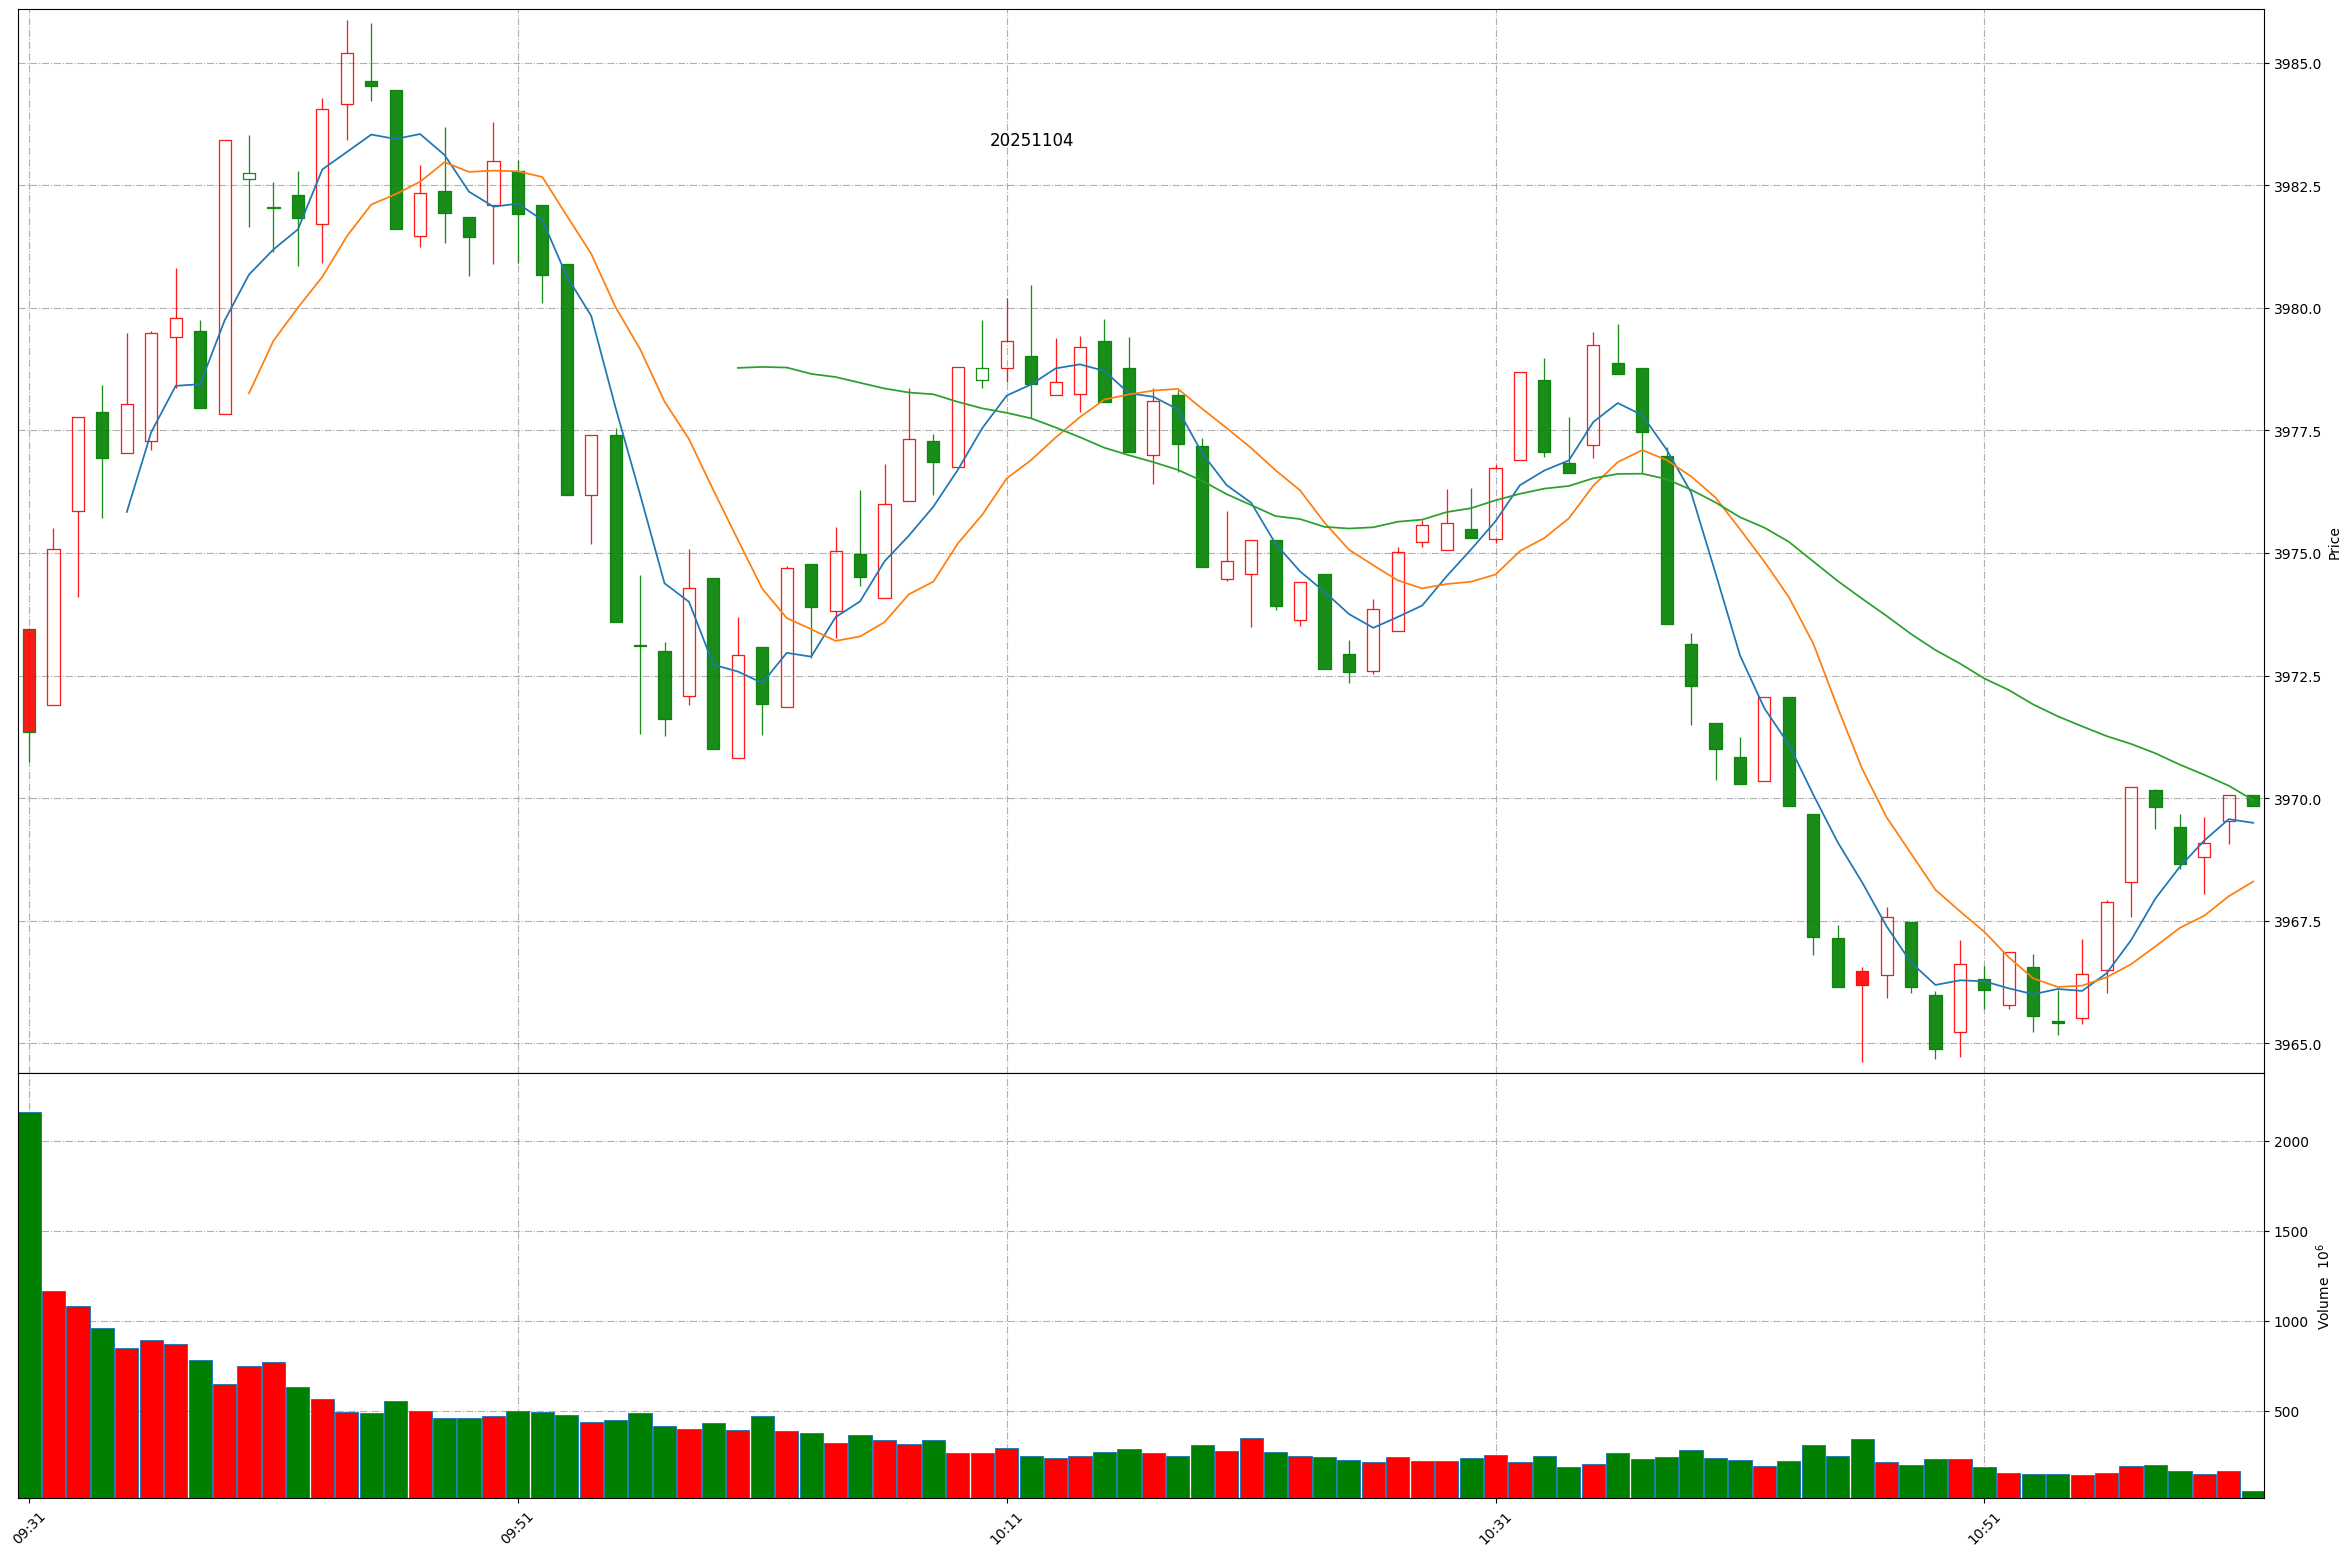
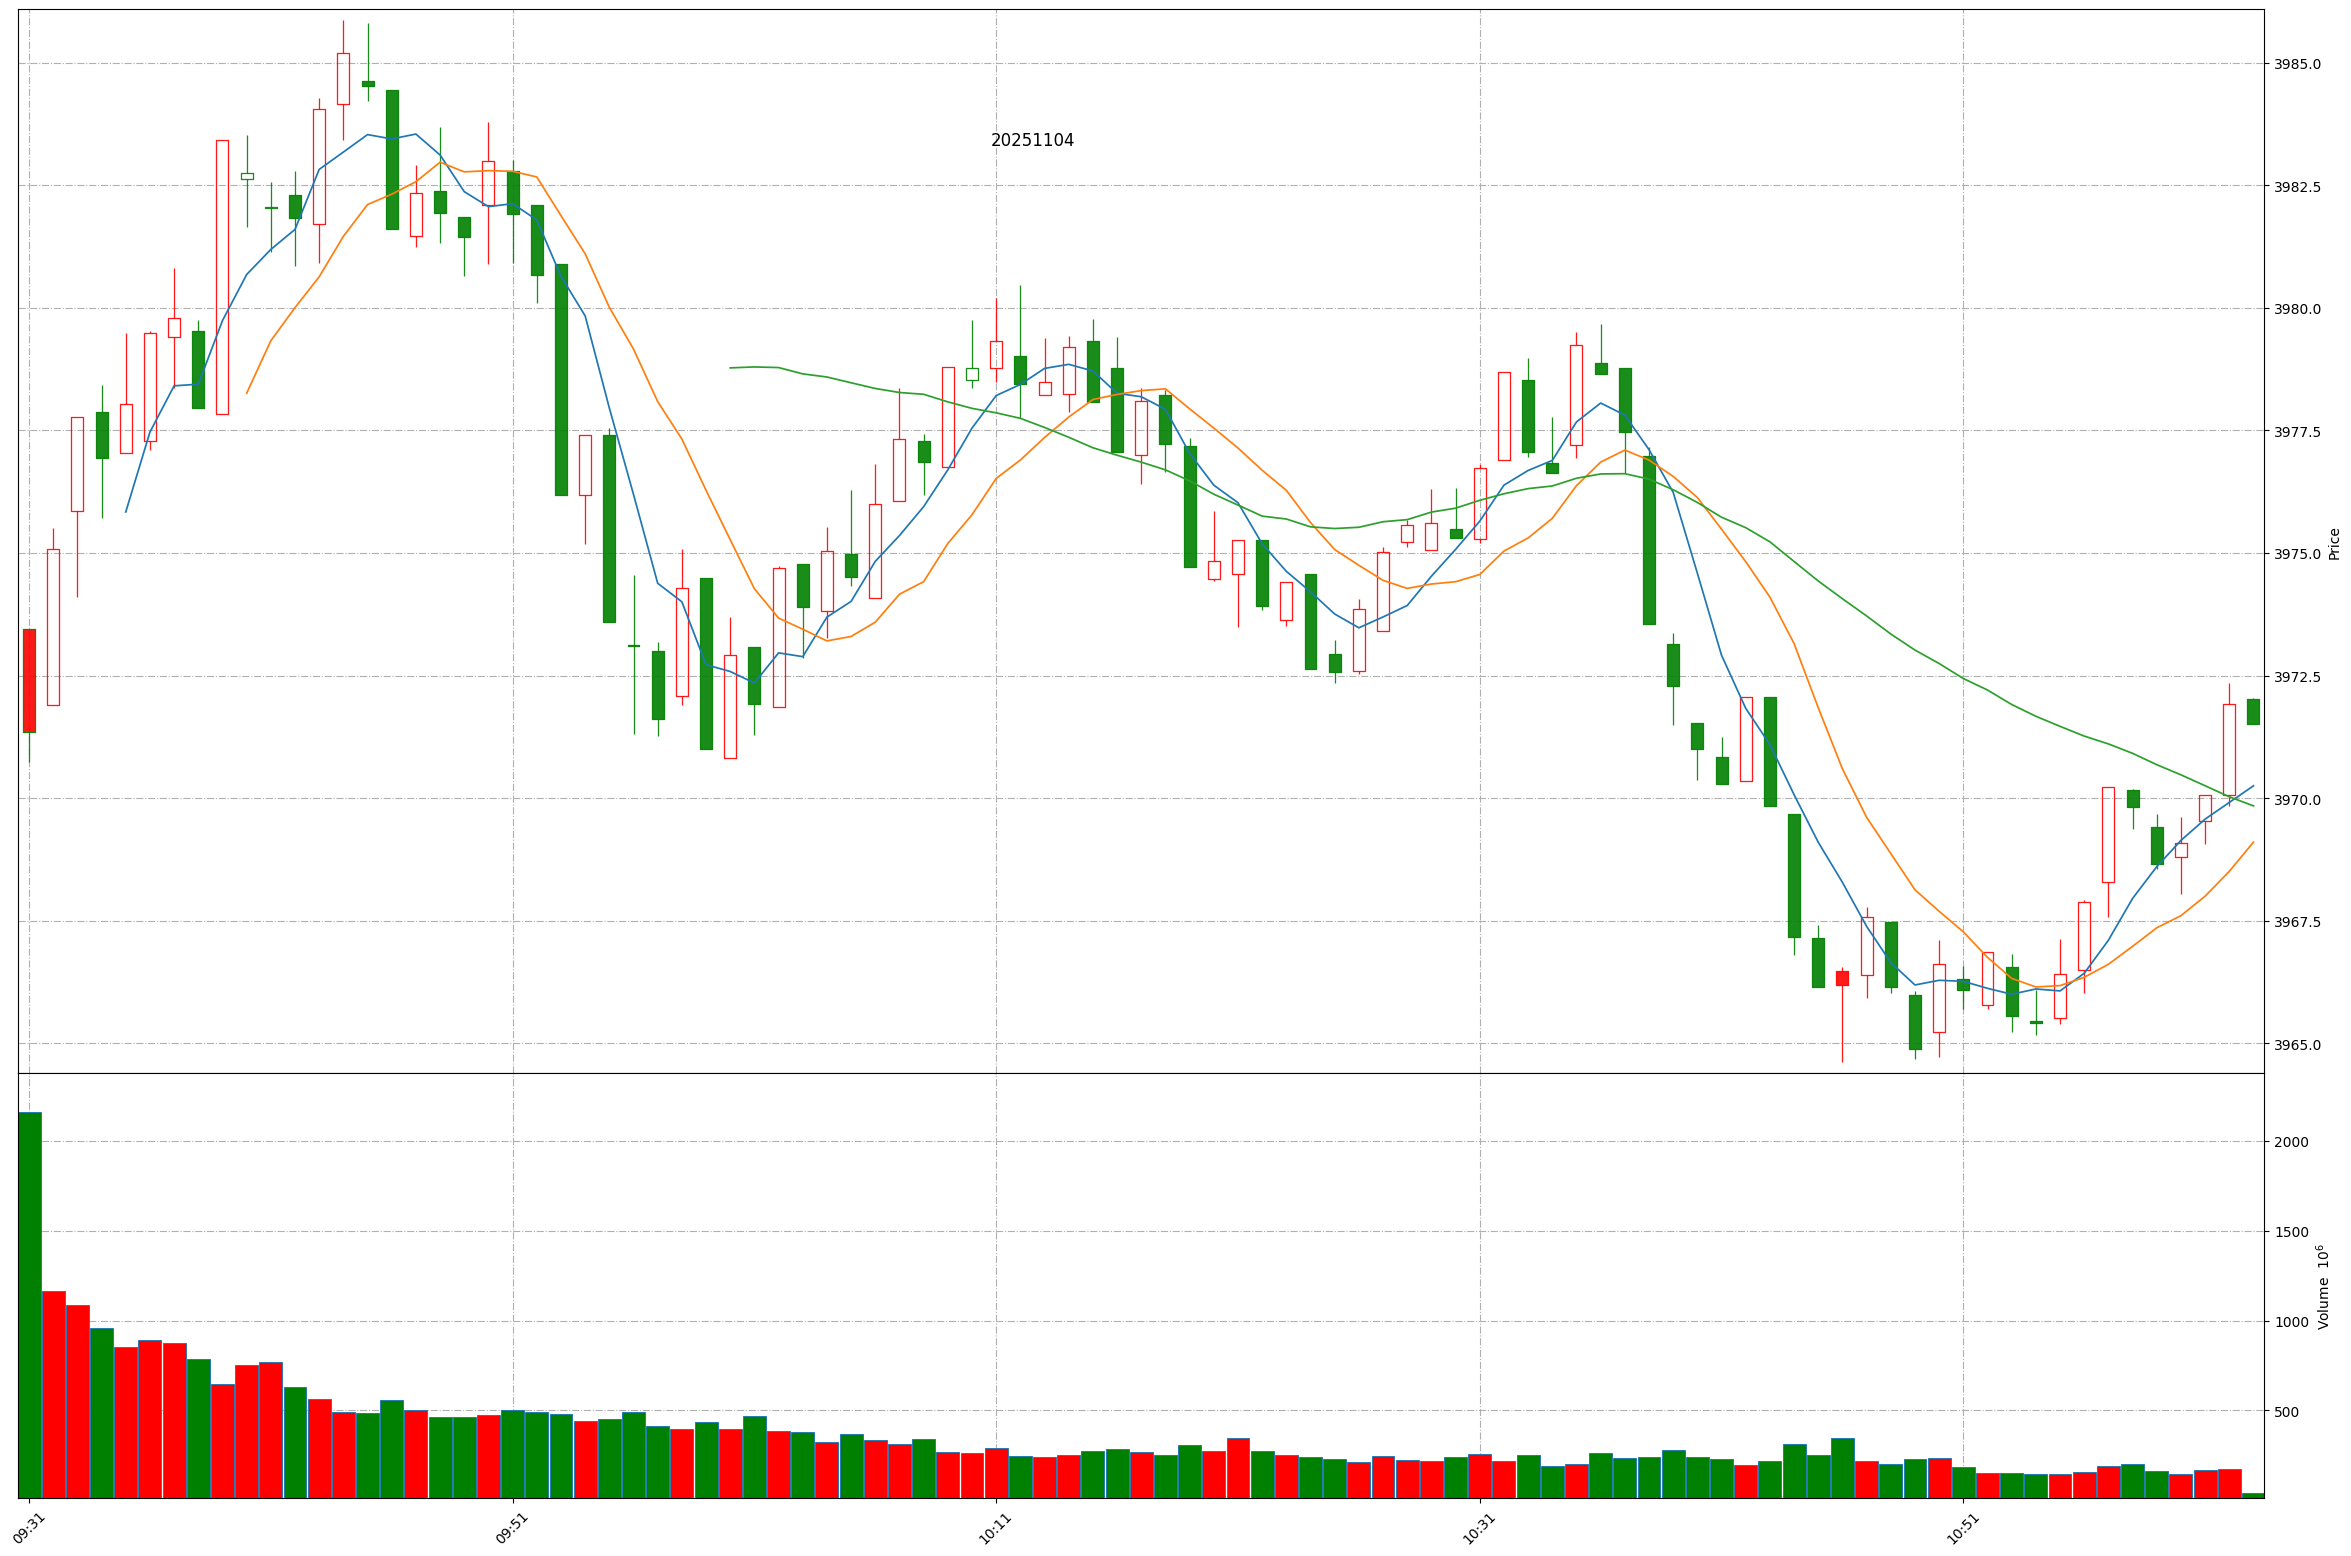
Github action update at 2025-11-04 11:02:42.

diff --git a/README.md b/README.md
@@ -1,11 +1,11 @@
 
 # Daily-A-share-market-quotes 每日 A 股指数（5min 更新）- 20251104
 
-### 上证指数 20251104 11:1
+### 上证指数 20251104 11:2
 ![](./fig/2025/11/20251104-sh000001.png)
 
-### 深证成指 20251104 11:1
+### 深证成指 20251104 11:2
 ![](./fig/2025/11/20251104-sz399001.png)
 
-### 北证50 20251104 11:1
+### 北证50 20251104 11:2
 ![](./fig/2025/11/20251104-bj899050.png)
